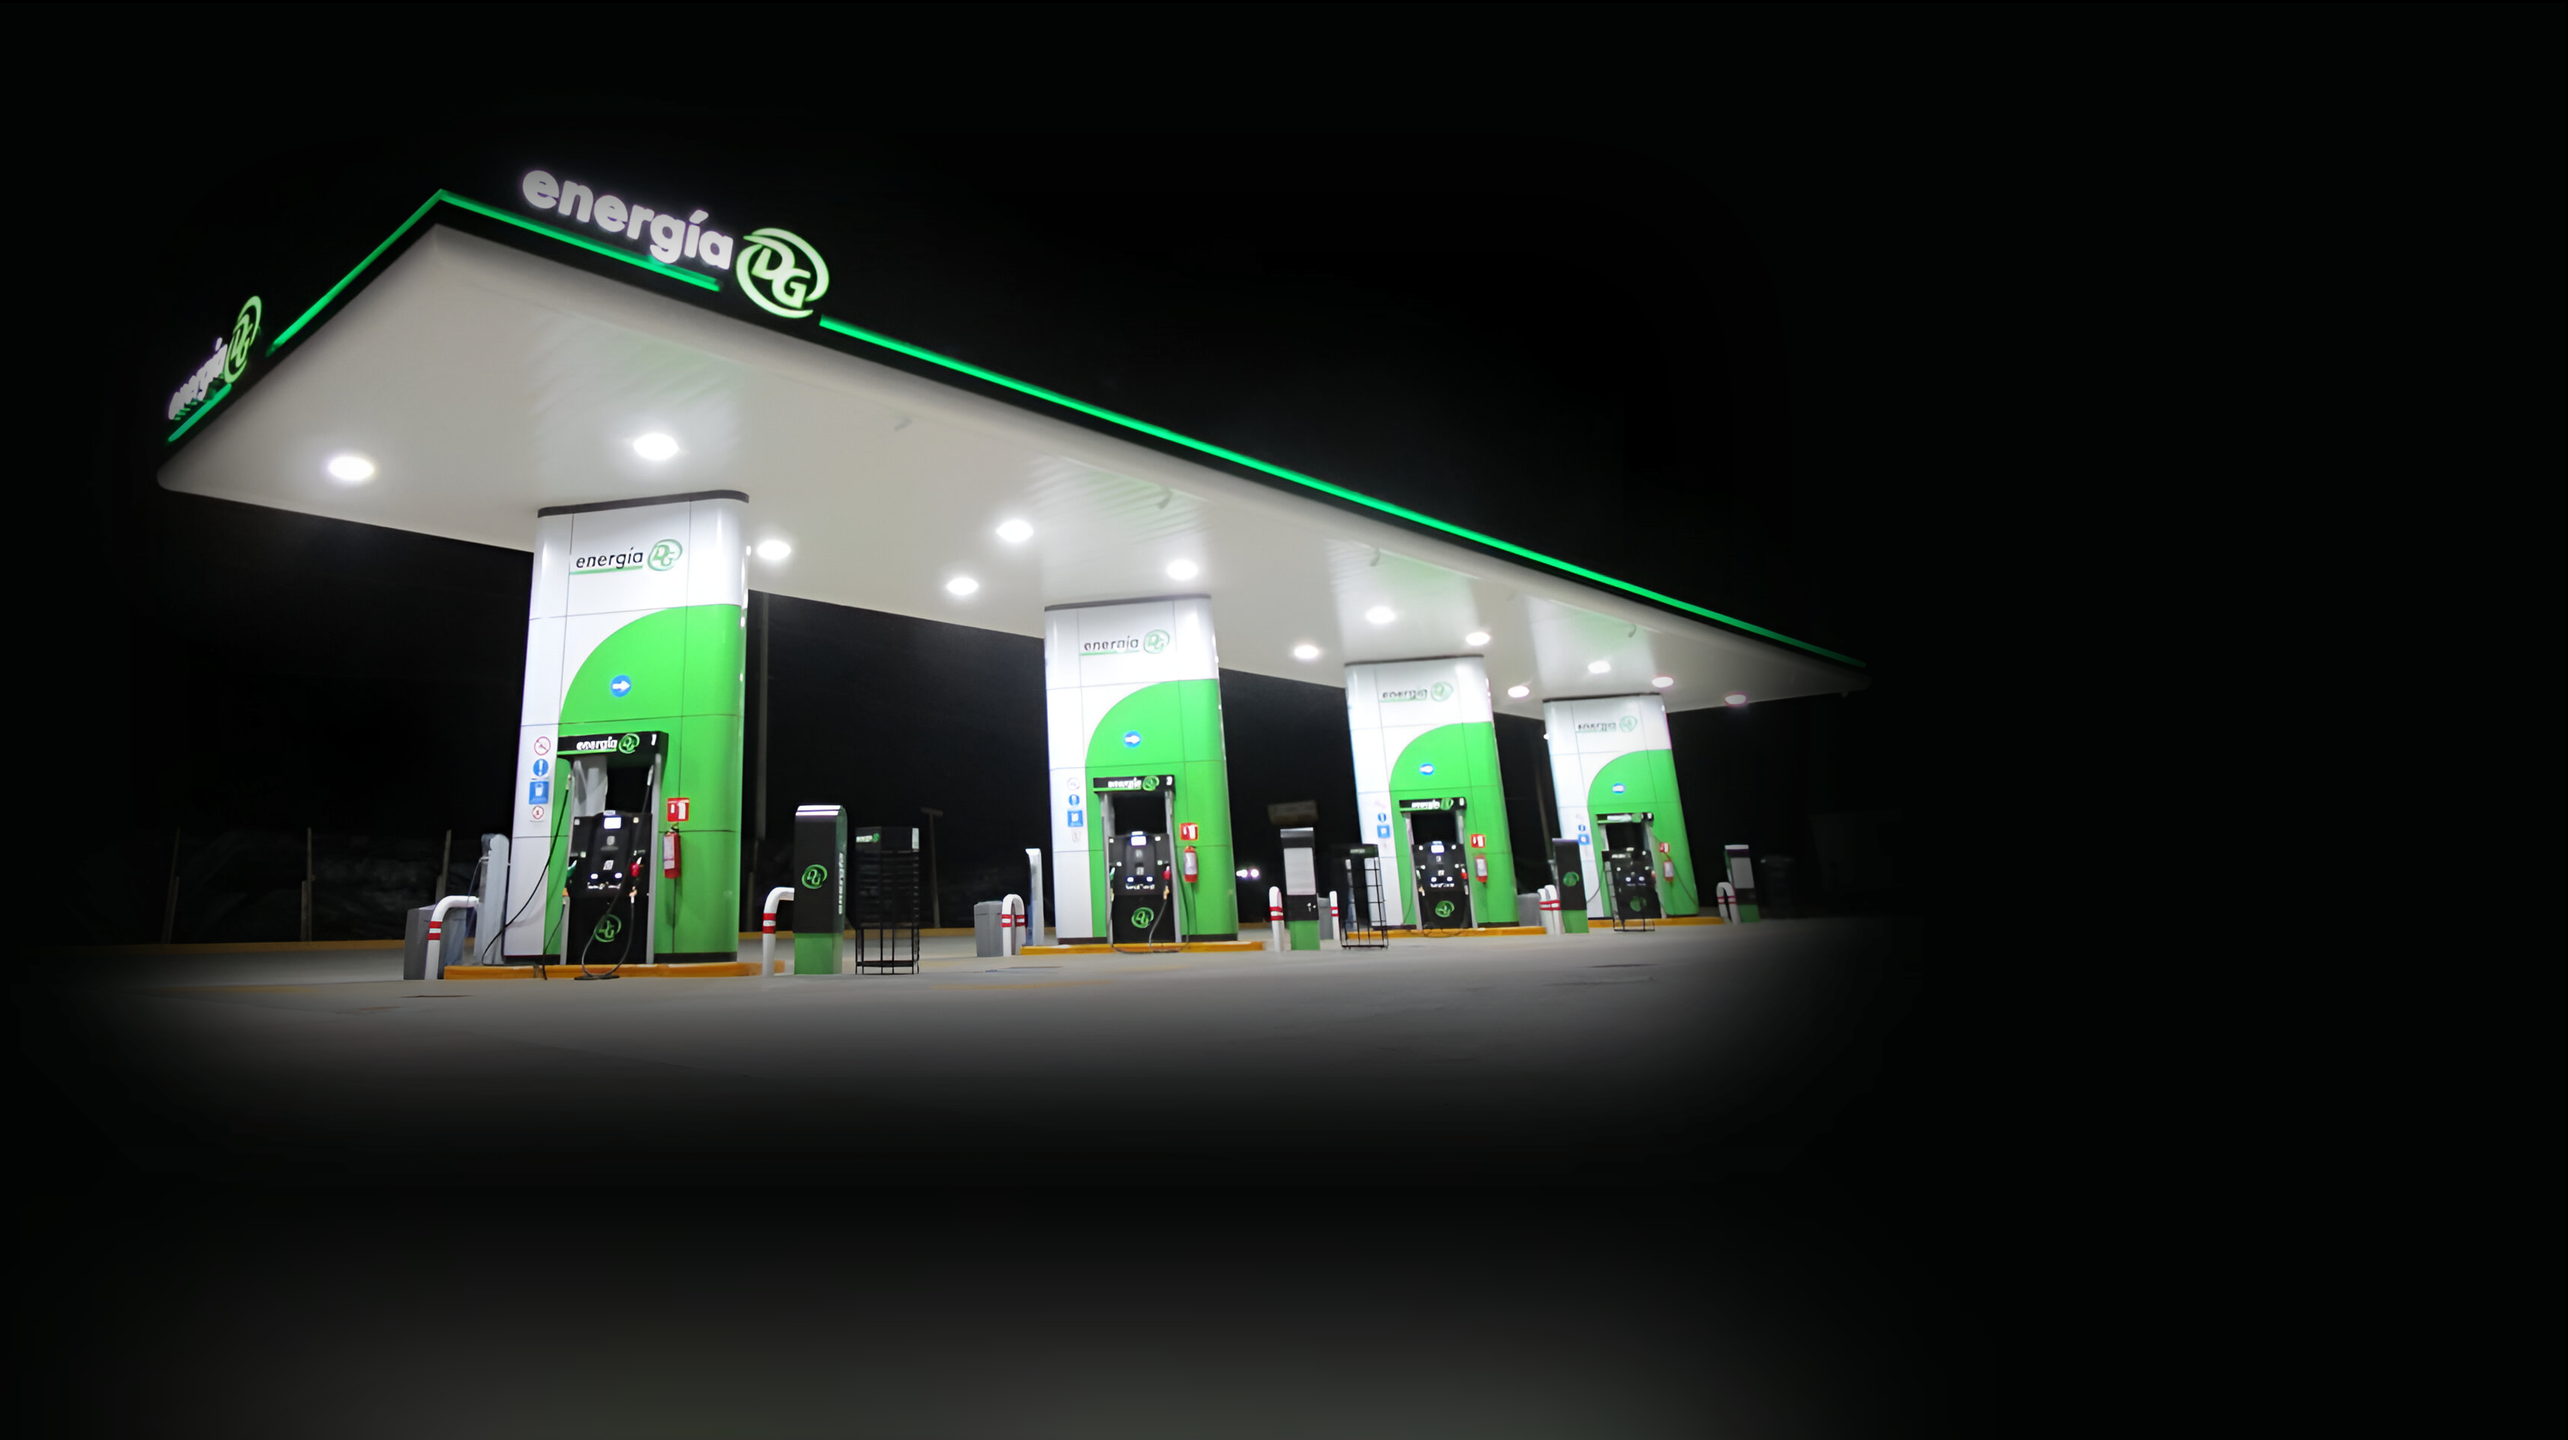
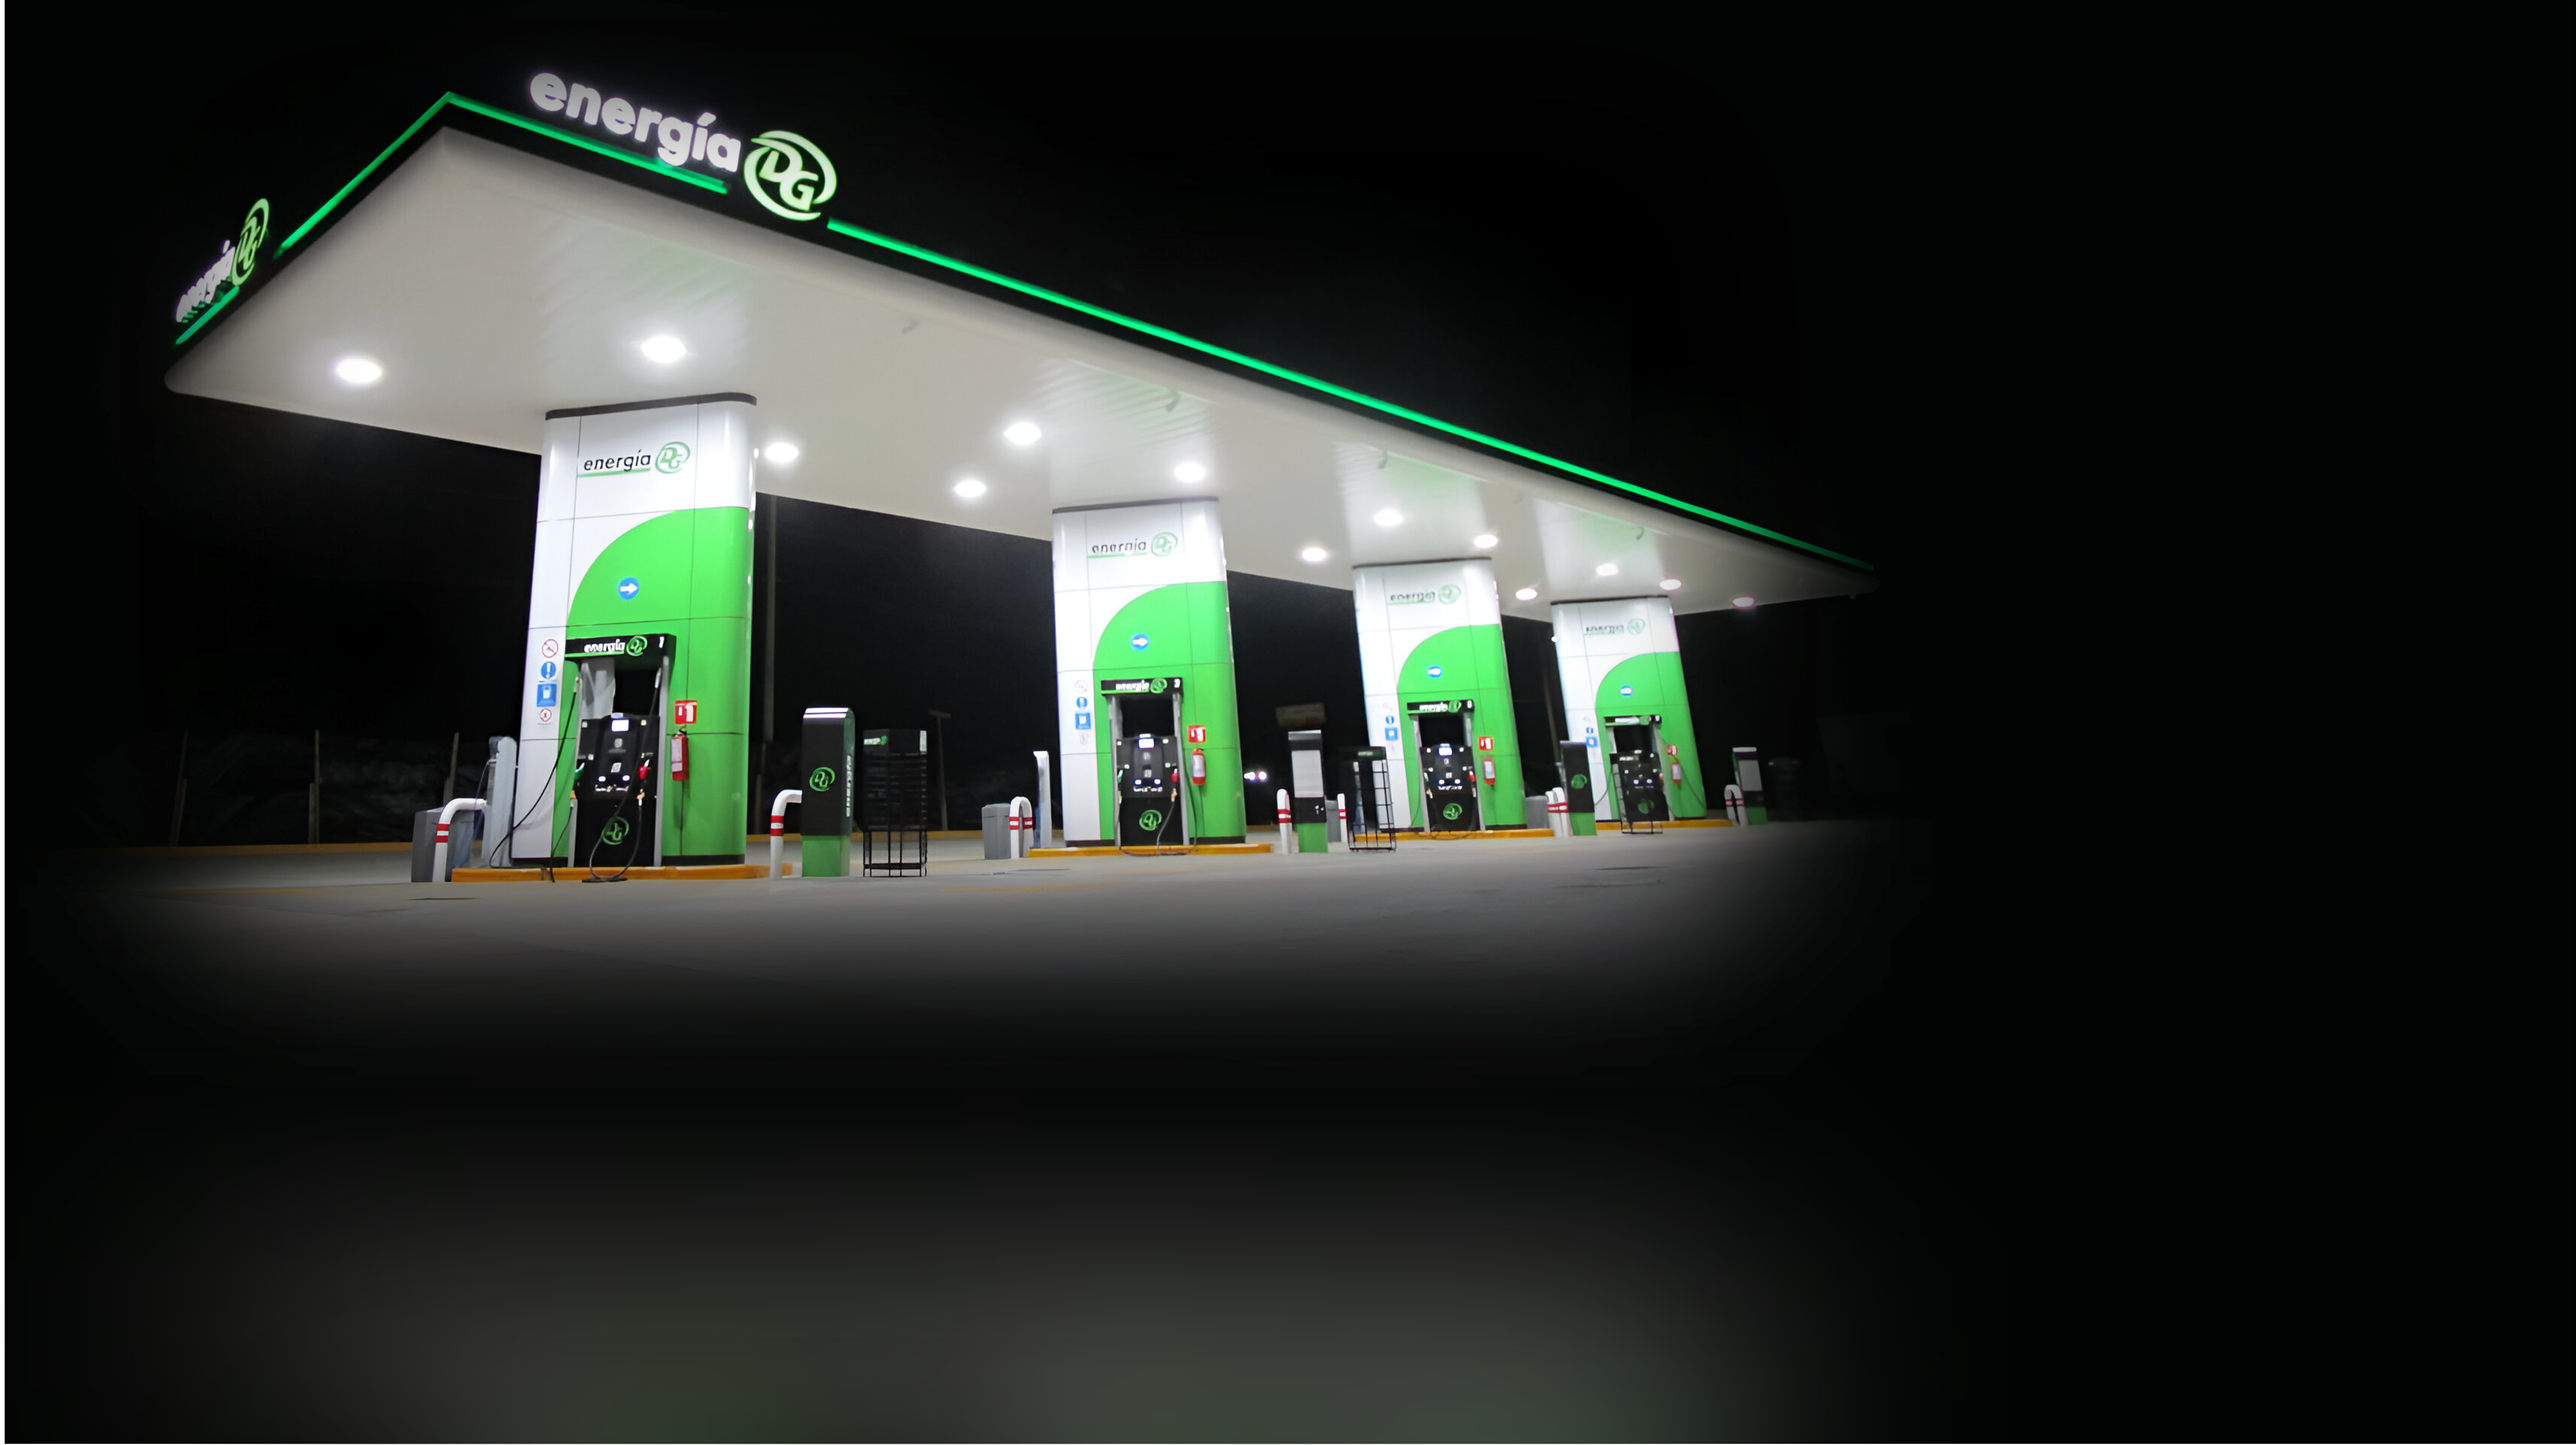
UPDATE 31/08/24

Changed region(s): [[0.0623, 0.0312, 0.7161, 0.7803], [0.0, 0.9988, 1.0, 1.0], [0.3736, 0.8427, 0.6227, 0.9364]]

diff --git a/index.html b/index.html
@@ -42,7 +42,7 @@
           <div
             class="swiper-slide slide"
             style="
-              background: url(images/Imagen2.png);"
+              background: url(images/Imagen3.png);"
           >
             <div class="content">
               <h3 class="texto">COMPROMISO Y HONESTIDAD EN CADA LITRO</h3>

diff --git a/css/style.css b/css/style.css
@@ -160,7 +160,7 @@ height: 50px;
 }
 
 .home .slide{
-    min-height: 55vh;
+    min-height: 70vh;
     background-size:cover !important;
     background-position: center ;
     display: flex;
